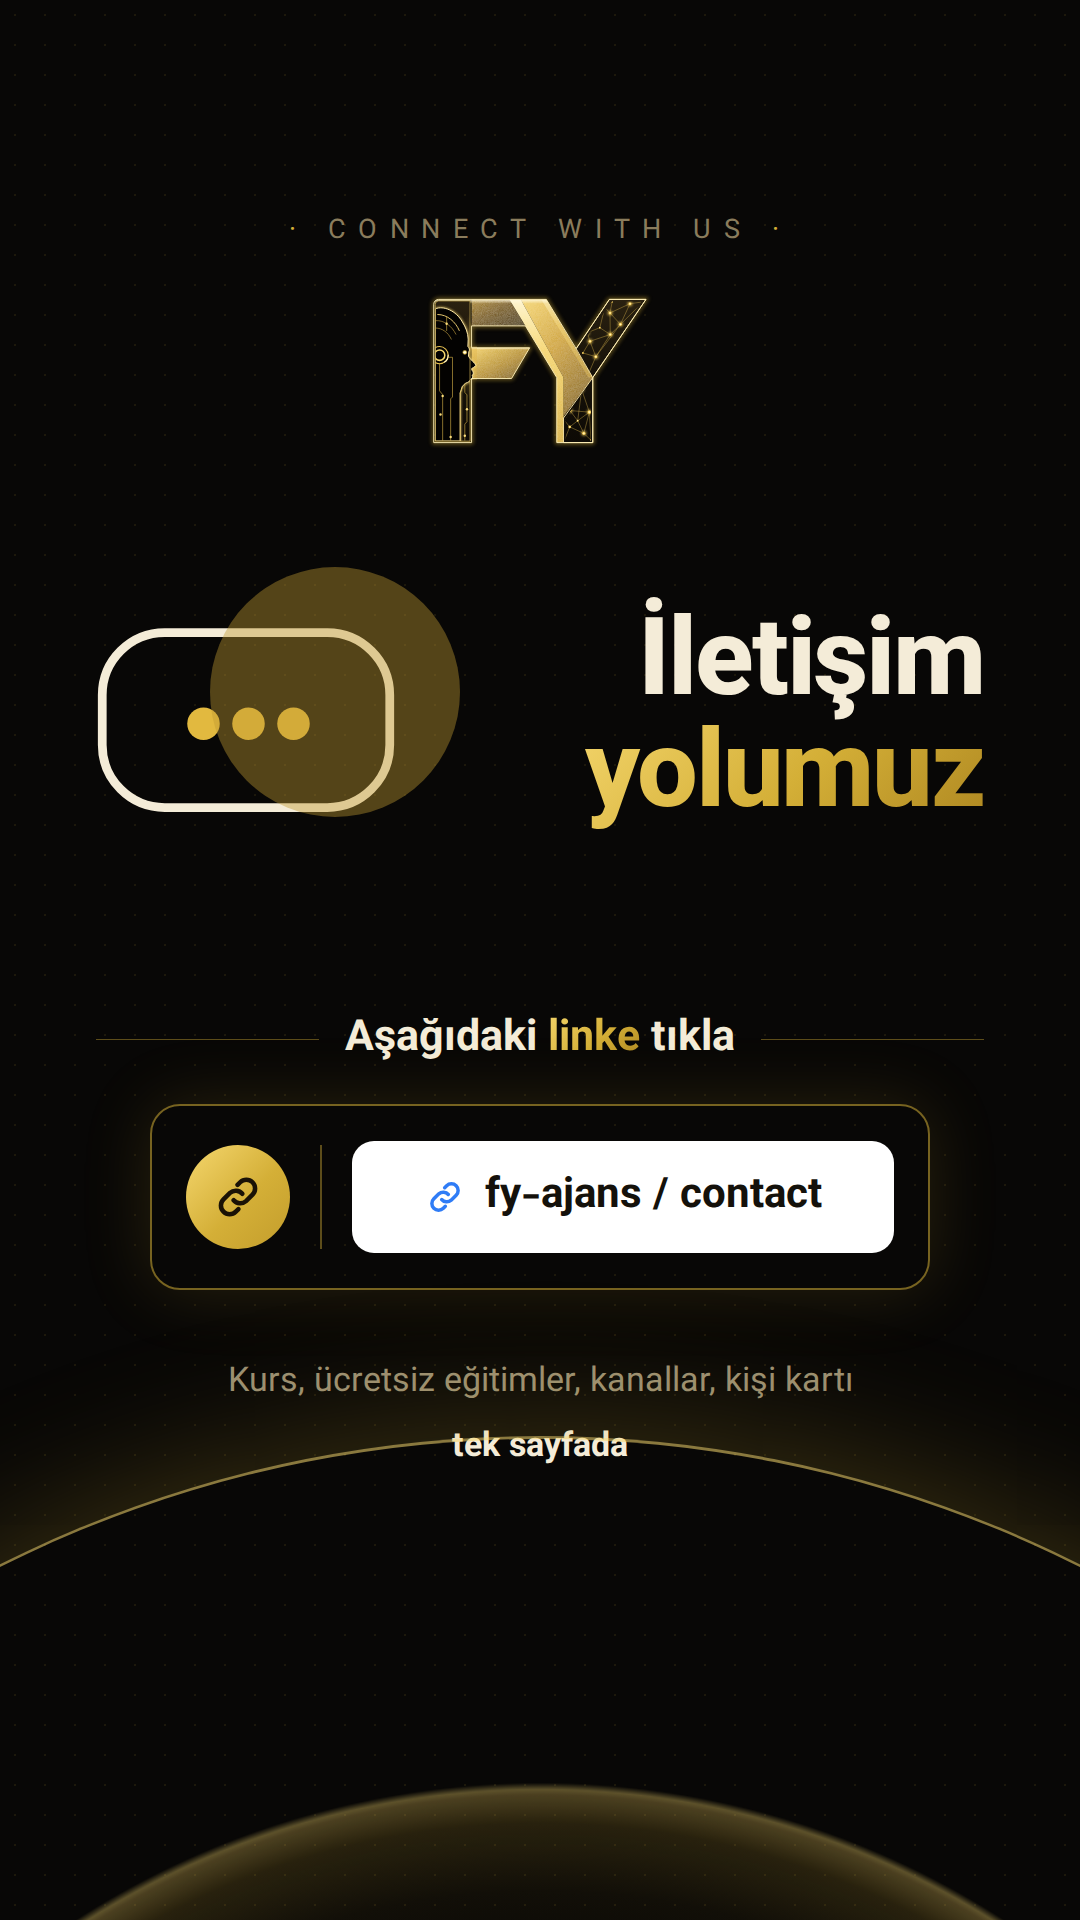
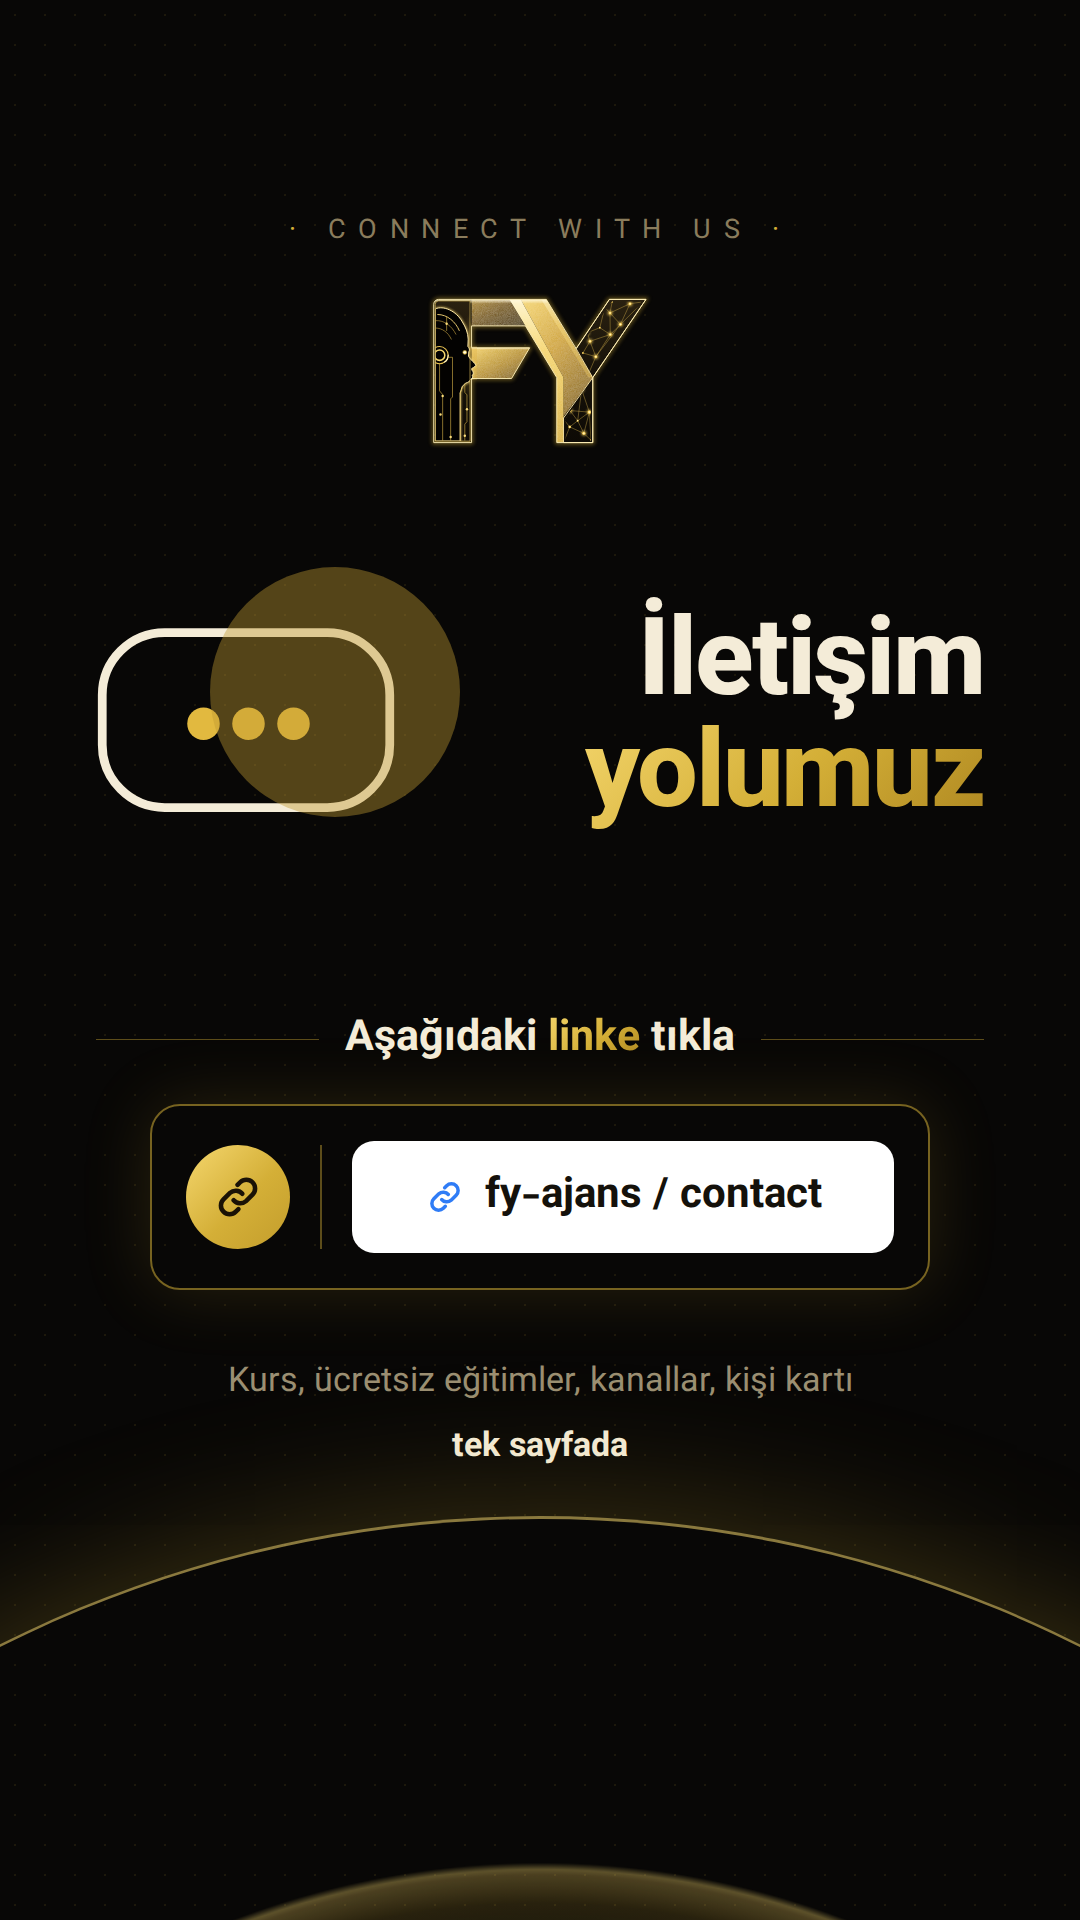
Sosyal gorseller: Farsca surum ve dil destegi
Üreteç artık dile göre çalışıyor; tr ve fa üretiliyor, de ve en argümanla:
  node tools/build-sosyal.mjs           tr ve fa
  node tools/build-sosyal.mjs de en     istenenler

Farsça iki şey gerektirdi:
- Harf aralığı verilmiyor. Kare gönderideki alt satır Latin sürümde .34em
  boşluklu; Farsça bağlı bir yazı olduğu için aynı değer harfleri birbirinden
  koparıyordu. letter-spacing dile göre veriliyor, Farsçada sıfır.
- vazirmatn-arabic.woff2 da yükleniyor; yoksa glifler düşüyordu.

Düzen aynen çalışıyor: başlık zaten sağa yaslıydı, bu RTL'in doğal hizası.
Yalnız metin kutularına dir veriliyor, yerleşim aynalanmıyor.

Metinler sitenin Farsça sözlüğüyle aynı terimleri kullanıyor (dorе → دوره,
kanallar → کانالها, kişi kartı → کارت تماس). Bağlantı rozeti Farsça sayfanın
kendi adresini gösteriyor: fy-ajans / fa / contact.

Ayrıca alt kavis 80px aşağı alındı; alt satırın içinden geçiyordu.

Claude-Session: https://claude.ai/code/session_01ESE13ZXNAe2KxqUdTpLhYv

diff --git a/README.md b/README.md
@@ -110,9 +110,9 @@ img/favicon.ico       16/32/48 px favicon (SVG favicon okumayan Safari ve eski t
 tools/build-logo.mjs  logo üretici: SVG'ler bağımlılıksız, PNG'ler için --raster (Playwright + Chromium)
 tools/build-og-profile.mjs  bağlantı sayfasının paylaşım görseli (Playwright + Chromium)
 tools/build-vcard.mjs  kişi kartı üretici (Playwright + Chromium; fotoğrafın karesini kırpar)
-tools/build-sosyal.mjs  bağlantı sayfasının sosyal medya görselleri — hikâye ve kare gönderi (Playwright + Chromium)
+tools/build-sosyal.mjs  bağlantı sayfasının sosyal medya görselleri — hikâye ve kare gönderi, dört dil (Playwright + Chromium)
 brand/                marka kiti: profil fotoğrafı, şeffaf PNG, tek renk siyah/beyaz, TR/EN/DE yatay kilit (--kit üretir; liste brand/README.md)
-brand/sosyal-*.png    bağlantı sayfasının sosyal medya görselleri: hikâye (1080×1920, simgeli ve fotoğraflı) ve kare gönderi (1080×1080); tools/build-sosyal.mjs üretir
+brand/sosyal-*.png    bağlantı sayfasının sosyal medya görselleri: hikâye (1080×1920, simgeli ve fotoğraflı) ve kare gönderi (1080×1080); TR ve FA yayında, dosya adında dil eki (sosyal-kare-fa-…); DE/EN için betiğe dil ver; tools/build-sosyal.mjs üretir
 404.html              bulunamayan sayfa (kendi kendine yeter; alan adı değişince içindeki /fy-ajans/ yollarını güncelle)
 robots.txt  sitemap.xml  manifest.webmanifest
 ```
